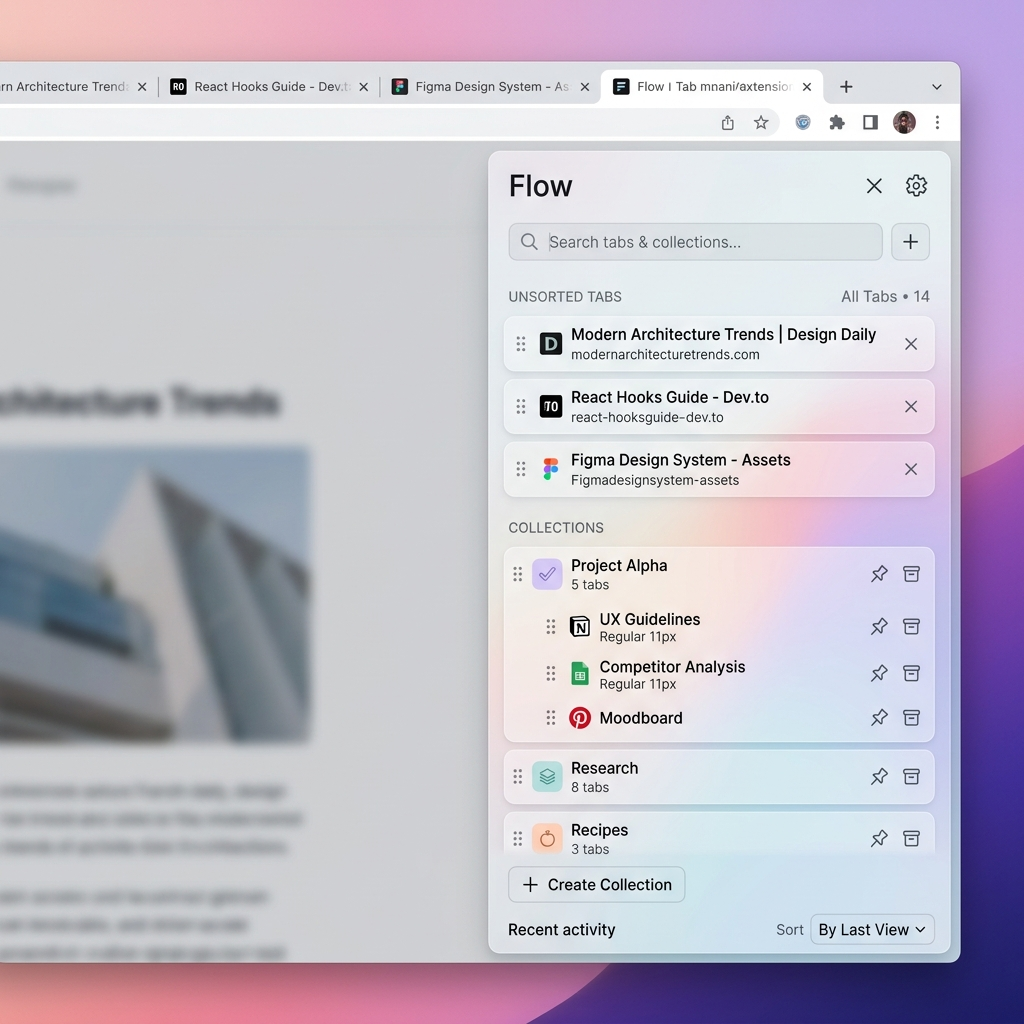
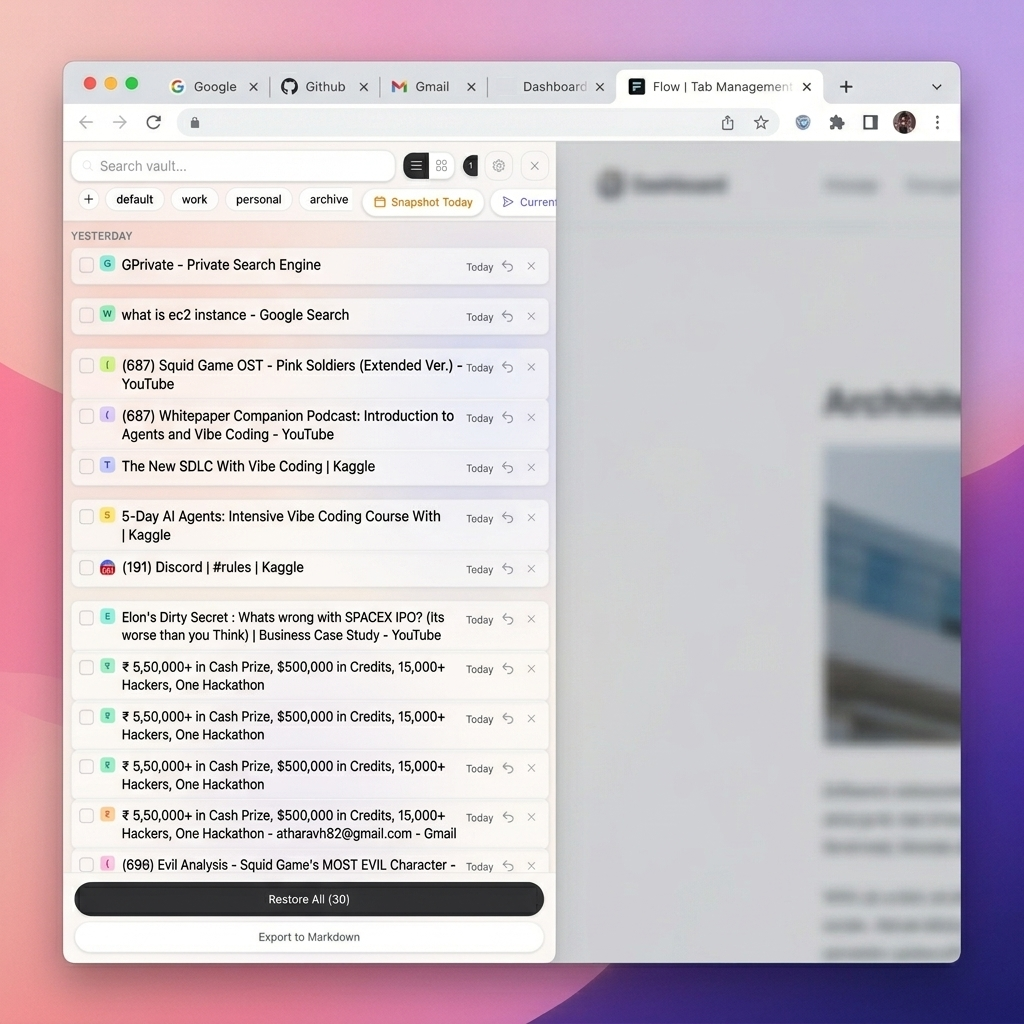
feat: update TabVault mockups to match real extension screenshots and left side-panel alignment

diff --git a/src/components/Projects.jsx b/src/components/Projects.jsx
@@ -334,10 +334,10 @@ const projectsData = [
           caption: "TabVault side panel interface in dark mode, showing archived cards and active groups."
         },
         {
-          title: "Smart Auto-Archive Prompt",
-          text: "Presents a non-intrusive toast notification before auto-archiving. Users can choose to 'Vault Now', 'Snooze 1hr' (which pushes the active timestamp forward), or 'Dismiss'. Pinned tabs and active audio feeds are strictly ignored.",
-          image: "/assets/tabvault_toast.png",
-          caption: "The smart auto-archive overlay prompting the user to reclaim RAM."
+          title: "Quick-Action Toolbar Popup",
+          text: "A clean, dropdown action menu triggered from the browser toolbar, enabling users to instantly vault the current tab, window, or all windows. It also features a quick-snapshot trigger, options to open the left side panel, and toggle switch configuration.",
+          image: "/assets/tabvault_popup.png",
+          caption: "The toolbar dropdown popup action menu for fast archiving."
         },
         {
           title: "Premium Dual-Theme Collections",
@@ -358,12 +358,12 @@ const projectsData = [
         }
       ],
       pipeline: [
-        "User tab becomes inactive for over 5 minutes",
-        "Background service worker triggers smart prompt toast",
-        "On confirmation, content scripts scrape scrollY position and text preview",
-        "Favicon is fetched and saved as Base64",
-        "Tab data lands in Dexie.js; browser tab is safely closed",
-        "Restoring the tab injects scroll coordinates and recreates custom groups"
+        "User triggers action via Toolbar Popup or Context Menu",
+        "Background service worker initializes capture",
+        "Content scripts scrape active scrollY coordinates and page text preview",
+        "Tab favicon is converted and saved locally as Base64",
+        "Data is stored in Dexie.js (IndexedDB); the active tab is closed to reclaim RAM",
+        "Restoration recreates the window context, groups, and scrolls to the saved position"
       ],
       deepIntegration: [
         {
